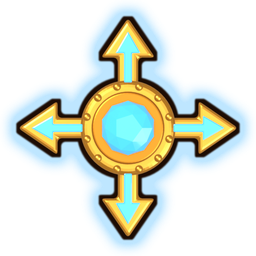
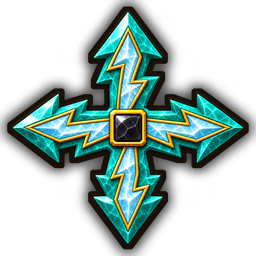
Спецкамни нарисованы Codex в манере камней: бирюзовая молния, солнце с рубином, обсидиановая бомба, нефритовый тотем; Blender-значки в архив

diff --git a/css/specials.css b/css/specials.css
@@ -3,10 +3,11 @@
    Правила: анимируем только transform и opacity; всё, что видно лишь внутри
    keyframes, имеет статичный запасной вид (см. prefers-reduced-motion ниже). */
 
-/* Значок — объёмный медальон из Blender (blender/specials.py +
-   tools/finish_specials.py) в центре таблички. Он целиком внутри клетки
-   (72% камня), поэтому не залезает на соседей, а цвет камня виден по краям.
-   Прежние кольца-оверлеи лежат в assets/gems/special-ring/. */
+/* Значок — рисунок Codex в манере камней (tools/pack_specials.py, тёмный
+   контур отделяет его даже от золотого камня) в центре таблички. Он целиком
+   внутри клетки (72% камня), поэтому не залезает на соседей, а цвет камня
+   виден по краям. Прежние наборы: Blender-медальоны — assets/gems/specials-blender/,
+   кольца-оверлеи — assets/gems/special-ring/. */
 .special-overlay {
   position: absolute;
   inset: 14%;

diff --git a/tools/pack_specials.py b/tools/pack_specials.py
@@ -1,0 +1,90 @@
+#!/usr/bin/env python3
+"""Значки спецкамней из картинок Codex (этап 2, шаг 4).
+
+Исходники: art-src/phase2/specials/src/
+  sheet.png — лист 2×2: молния (не используется), солнце, бомба, тотем;
+  line.png  — молния второго образца (бирюзовый крест), её и берём.
+Результат: assets/gems/special-{line,sun,bomb,totem}.png, 256×256, альфа.
+
+Что делает: режет лист по четвертям, обрезает по непрозрачному, альфу ≥ 250
+доводит до 255 (у Codex внутри рисунка 250–254), кладёт в квадрат с полями 4 %,
+добавляет тёмный контур ~3 px и мягкую тёмную подложку, чтобы золотой значок
+не сливался с золотым камнем. Нужен только Pillow.
+
+Запуск из корня игры:
+  python3 tools/pack_specials.py
+  python3 tools/pack_specials.py --src art-src/phase2/specials/src --out assets/gems
+"""
+import argparse
+import os
+
+from PIL import Image, ImageFilter
+
+SIZE = 256
+# Линия раздела листа: значки верхнего ряда кончаются выше 588 px,
+# а искра фитиля бомбы и перья тотема заходят выше середины (623).
+SPLIT_X, SPLIT_Y = 630, 588
+SHEET_CELLS = {'sun': 1, 'bomb': 2, 'totem': 3}  # 0 — старая молния
+
+
+def solid_alpha(img):
+    r, g, b, a = img.split()
+    return Image.merge('RGBA', (r, g, b, a.point(lambda v: 255 if v >= 250 else v)))
+
+
+def trim(img):
+    box = img.getchannel('A').point(lambda v: 255 if v > 8 else 0).getbbox()
+    return img.crop(box)
+
+
+def finish(img):
+    img = solid_alpha(trim(img))
+    side = int(max(img.size) * 1.08)
+    sq = Image.new('RGBA', (side, side), (0, 0, 0, 0))
+    sq.alpha_composite(img, ((side - img.width) // 2, (side - img.height) // 2))
+    sq = sq.resize((SIZE, SIZE), Image.LANCZOS)
+
+    alpha = sq.getchannel('A')
+    ring = alpha.filter(ImageFilter.MaxFilter(7))
+    shade = (alpha.filter(ImageFilter.MaxFilter(13))
+             .filter(ImageFilter.GaussianBlur(5))
+             .point(lambda v: int(v * 0.75)))
+
+    def flat(v):
+        return Image.new('L', (SIZE, SIZE), v)
+
+    out = Image.new('RGBA', (SIZE, SIZE), (0, 0, 0, 0))
+    out.alpha_composite(Image.merge('RGBA', (flat(12), flat(12), flat(12), shade)))
+    out.alpha_composite(Image.merge('RGBA', (flat(26), flat(16), flat(10), ring)))
+    out.alpha_composite(sq)
+    return out
+
+
+def sheet_cell(sheet, index):
+    w, h = sheet.size
+    xs = [(0, SPLIT_X), (SPLIT_X, w)]
+    ys = [(0, SPLIT_Y), (SPLIT_Y, h)]
+    x0, x1 = xs[index % 2]
+    y0, y1 = ys[index // 2]
+    return sheet.crop((x0, y0, x1, y1))
+
+
+def main():
+    ap = argparse.ArgumentParser(description=__doc__.splitlines()[0])
+    ap.add_argument('--src', default='art-src/phase2/specials/src')
+    ap.add_argument('--out', default='assets/gems')
+    args = ap.parse_args()
+
+    sheet = Image.open(os.path.join(args.src, 'sheet.png')).convert('RGBA')
+    icons = {name: sheet_cell(sheet, i) for name, i in SHEET_CELLS.items()}
+    icons['line'] = Image.open(os.path.join(args.src, 'line.png')).convert('RGBA')
+
+    os.makedirs(args.out, exist_ok=True)
+    for name in ('line', 'sun', 'bomb', 'totem'):
+        path = os.path.join(args.out, f'special-{name}.png')
+        finish(icons[name]).save(path, optimize=True)
+        print(f'{path}  {os.path.getsize(path) // 1024} КБ')
+
+
+if __name__ == '__main__':
+    main()

diff --git a/README.md b/README.md
@@ -1,6 +1,6 @@
 # Хранитель Солнца
 
-Браузерная игра «три в ряд» в ацтекском стиле: путь хранителя через десять земель, чтобы собрать разбитый Солнечный Камень. Чистый HTML/CSS/JavaScript, без сборки и сторонних библиотек: самоцветы и фоны уровней — PNG/WebP, нарисованные через Codex, спецкамни и сцена — рендеры Blender (см. «Графика»), остальная графика — SVG/CSS, музыка синтезируется через Web Audio, а ключевые звуковые эффекты — встроенные сэмплы.
+Браузерная игра «три в ряд» в ацтекском стиле: путь хранителя через десять земель, чтобы собрать разбитый Солнечный Камень. Чистый HTML/CSS/JavaScript, без сборки и сторонних библиотек: самоцветы, спецкамни и фоны уровней — PNG/WebP, нарисованные через Codex, сцена — рендеры Blender (см. «Графика»), остальная графика — SVG/CSS, музыка синтезируется через Web Audio, а ключевые звуковые эффекты — встроенные сэмплы.
 
 ## Запуск
 
@@ -103,16 +103,15 @@ python3 tools/cut_tiles.py art-src/gems-sheet.png assets/gems
 
 Предыдущие наборы сохранены: `assets/gems/tiles-v1/` — эмалевые плитки из Blender (`blender/tiles.py`), `assets/gems/classic/` — исходные огранённые камни (`blender/gems.py`). Чтобы вернуть любой, скопируйте оттуда `gem-*.png` в `assets/gems/`.
 
-Спецкамни — объёмные медальоны-значки в центре таблички, собранные в Blender (`blender/specials.py`): солнце — восемь гранёных лучей и огранённый рубин, молния — крест из золотых стрелок с голубыми вставками, бомба — обсидиановая сфера с золотым поясом и фитилём-искрой, тотем — нефритовая маска с перьями. Значок занимает 72 % камня и целиком помещается в клетку, а цвет камня остаётся виден по краям. Тёмный контур и цветной ореол (чтобы значок отделялся даже от золотого камня) добавляет `tools/finish_specials.py`:
+Спецкамни — значки в центре таблички, нарисованные Codex в той же манере, что и камни: молния — бирюзовый крест из четырёх стрел-молний с обсидиановым квадратиком, солнце — золотой диск с двенадцатью лучами и рубином, бомба — обсидиановый шар с золотым поясом и фитилём-искрой, тотем — суровая нефритовая маска с золотой инкрустацией. Значок занимает 72 % камня и целиком помещается в клетку, а цвет камня остаётся виден по краям. Тёмный контур (чтобы значок отделялся даже от золотого камня) добавляет `tools/pack_specials.py`; исходники и брифы — `art-src/phase2/specials/`, подробности — `art-src/phase2/PROMPTS.md`, раздел «Шаг 4»:
 
 ```bash
-/Applications/Blender.app/Contents/MacOS/Blender --background --python blender/specials.py -- --out art-src/specials
-python3 tools/finish_specials.py art-src/specials assets/gems   # нужен Pillow
+python3 tools/pack_specials.py   # нужен Pillow
 ```
 
-Скрипт можно выполнить и в открытом Blender (например, через Blender MCP): он соберёт отдельную сцену «SunSpecials» и ничего не тронет в остальных. Прежние кольца-оверлеи — `blender/specials_ring.py` и `assets/gems/special-ring/`.
+Прежние наборы сохранены: Blender-медальоны — `assets/gems/specials-blender/` (`blender/specials.py` + `tools/finish_specials.py`), кольца-оверлеи — `assets/gems/special-ring/` (`blender/specials_ring.py`). Чтобы вернуть любой, скопируйте оттуда `special-*.png` в `assets/gems/`.
 
-Опции передаются после `--`:
+Опции прежних Blender-скриптов камней (`blender/tiles.py`, `blender/specials.py`) передаются после `--`:
 
 | Опция | Что делает |
 |---|---|
@@ -257,8 +256,9 @@ blender/ui.py     — генератор солнечного медальона
 blender/art.py    — генератор шамана, листвы и фона с пирамидами
 blender/panels.py — генератор каменных панелей и рамки поля
 blender/tiles.py  — генератор камней-табличек (эмаль, золотая рамка, глиф)
-blender/specials.py — значки спецкамней (молния, солнце, бомба, тотем)
-tools/finish_specials.py — контур и ореол значков после рендера
+tools/pack_specials.py — значки спецкамней из картинок Codex (контур, размер 256)
+blender/specials.py — прежние Blender-значки спецкамней (архив)
+tools/finish_specials.py — контур и ореол прежних Blender-значков
 css/specials.css  — размер и анимация значков спецкамней
 css/themes.css    — фоны и подсветка по номеру земли (body[data-land])
 css/backdrop.css  — живой фон: плита, водопад, туман, луна, облака, режимы data-bd
